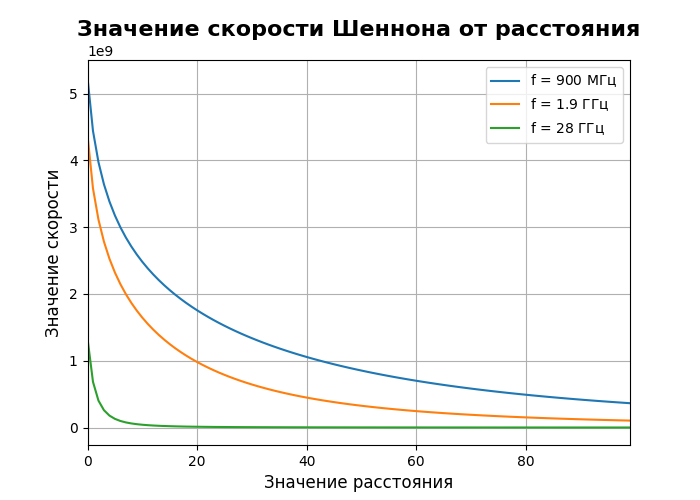
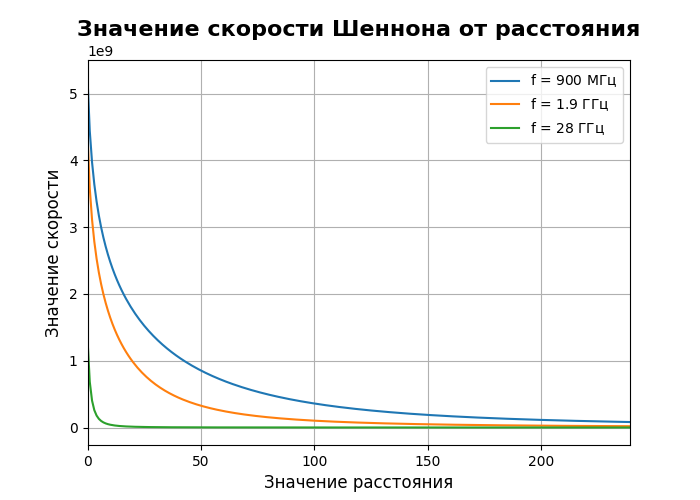
added task 3

diff --git a/main.py b/main.py
@@ -13,7 +13,7 @@ B = 400 * MHz # ширина канала
 N = -174 # тепловой шум
 
 shennon_dBm_list = [], [], []
-d = 100 # значение расстояния
+d = 240 # значение расстояния
 for i in range(len(shennon_dBm_list)):
   for j in range(1, d + 1):
     # вычисление значений скорости Шеннона для всех расстояний
@@ -49,3 +49,82 @@ print('Зависимость от Pt')
 for i in range(3):
   print(f"Скорость Шеннона: {round(shennon_dBm(SNR_W(FSPL_W(f[0], d), B, N, increase_list[0], Pt_list[i]), B), 3)}, f = {int(f[0])} Гц, усил = {increase_list[0]} дБ, Pt = {Pt_list[i]} дБм")
 
+# Task 2 
+
+FSPL_dBm_list = []
+UMaLOS_dBm_list = []
+UMaNLOS_dBm_list = []
+InHLOS_dBm_list = []
+InHNLOS_dBm_list = []
+d = 240 # значение расстояния
+for i in range(10, d + 1):
+  # вычисление значений скорости Шеннона для всех расстояний
+  FSPL_dBm_list.append(FSPL_dBm(f[0], i))
+  UMaLOS_dBm_value = UMaLOS_dBm(f[0], i)
+  UMaLOS_dBm_list.append(UMaLOS_dBm_value)
+  UMaNLOS_dBm_list.append(UMaNLOS_dBm(f[0], i, UMaLOS_dBm_value))
+  InHLOS_dBm_value = InHLOS_dBm(f[0], i)
+  InHLOS_dBm_list.append(InHLOS_dBm_value)
+  InHNLOS_dBm_list.append(InHNLOS_dBm(f[0], i, InHLOS_dBm_value))
+
+fig = plt.subplots(figsize=(7, 5))
+
+plt.plot(FSPL_dBm_list, label="FSPL")
+plt.plot(UMaLOS_dBm_list, label="UMaLOS")
+plt.plot(UMaNLOS_dBm_list, label="UMaNLOS")
+plt.plot(InHLOS_dBm_list, label="InHLOS")
+plt.plot(InHNLOS_dBm_list, label="InHNLOS")
+plt.title('Значение моделей распространения от расстояния', fontsize=14, fontweight="bold")
+plt.xlabel('Значение расстояния', fontsize=12)
+plt.ylabel('дБм', fontsize=12)
+plt.xlim(0, d - 10)
+plt.grid()
+plt.legend()
+plt.savefig('models_from_dist.png')
+
+
+# Task 3 
+
+FSPL_shennon_dBm_list = []
+UMaLOS_shennon_dBm_list = []
+UMaNLOS_shennon_dBm_list = []
+InHLOS_shennon_dBm_list = []
+InHNLOS_shennon_dBm_list = []
+d = 130 # значение расстояния
+for i in range(10, d + 1):
+  # вычисление значений скорости Шеннона для всех расстояний
+  FSPL_shennon_dBm_list.append(shennon_dBm(SNR_W(FSPL_W(f[0], i), B, N, increase, Pt), B))
+  UMaLOS_dBm_value = UMaLOS_dBm(f[0], i)
+  UMaLOS_shennon_dBm_list.append(shennon_dBm(SNR_W(dBm_to_W(UMaLOS_dBm_value), B, N, increase, Pt), B))
+  UMaNLOS_shennon_dBm_list.append(shennon_dBm(SNR_W(dBm_to_W(UMaNLOS_dBm(f[0], i, UMaLOS_dBm_value)), B, N, increase, Pt), B))
+  InHLOS_dBm_value = InHLOS_dBm(f[0], i)
+  InHLOS_shennon_dBm_list.append(shennon_dBm(SNR_W(dBm_to_W(InHLOS_dBm_value), B, N, increase, Pt), B))
+  InHNLOS_shennon_dBm_list.append(shennon_dBm(SNR_W(dBm_to_W(InHNLOS_dBm(f[0], i, InHLOS_dBm_value)), B, N, increase, Pt), B))
+
+fig = plt.subplots(figsize=(7, 5))
+
+# график значения скорости Шеннона от расстояния
+plt.plot(UMaLOS_shennon_dBm_list, label="UMaLOS")
+plt.plot(UMaNLOS_shennon_dBm_list, label="UMaNLOS")
+plt.plot(InHLOS_shennon_dBm_list, label="InHLOS")
+plt.plot(InHNLOS_shennon_dBm_list, label="InHNLOS")
+plt.title('Значение скорости Шеннона от расстояния', fontsize=14, fontweight="bold")
+plt.xlabel('Значение расстояния', fontsize=12)
+plt.ylabel('Значение скорости', fontsize=12)
+plt.xlim(0, d - 10)
+plt.grid()
+plt.legend(loc=1)
+plt.savefig('shenon_model_from_dist.png')
+
+
+fig = plt.subplots(figsize=(7, 5))
+
+# график значения скорости Шеннона от расстояния для нескольких частот
+plt.plot(FSPL_shennon_dBm_list, label="FSPL")
+plt.title('Значение скорости Шеннона от расстояния', fontsize=14, fontweight="bold")
+plt.xlabel('Значение расстояния', fontsize=12)
+plt.ylabel('Значение скорости', fontsize=12)
+plt.xlim(0, d - 10)
+plt.grid()
+plt.legend(loc=1)
+plt.savefig('shenon_FSPL_from_dist.png')

diff --git a/functions.py b/functions.py
@@ -1,5 +1,5 @@
 import math 
-
+import numpy as np
 
 c = 299792458 # константа скорости света
 # функция для модели FSPL в шкале дБм
@@ -24,3 +24,67 @@ def SNR_dBm(model, B, N, increase, Pt):
 
 def shennon_dBm(SNR, B):
   return B * math.log2(1 + SNR)
+
+
+h_BS = 25 # высота антенны BS
+h_UT = 15 # высота антенны UT
+
+# функция для расчета расстояния между вершинами двух антенн
+def d_3D_value(h_BS, h_UT, d):
+  return math.sqrt(pow(h_BS - h_UT, 2) + pow(d, 2))
+
+def d_break_value(h_BS, h_UT, d, f):
+  if d <= 18:
+    g = 0
+  else:
+    g = 5 / 4 * pow(d / 100, 3) * math.exp(-d / 150)
+
+  if h_UT < 13:
+    C = 0
+  elif h_UT <= 23 and h_UT >= 13:
+    C = pow((h_UT - 13) / 10, 1.5) * g
+  else:
+    return "Значение h_UT слишком большое"
+
+  p = np.random.random()
+  prob = 1 / (1 + C)
+  if p < prob:
+    h_E = 1  # эффективная высота окружающей среды
+  else:
+    h_E = np.random.randint(low=12, high=h_UT-1.5)
+
+  return 4 * (h_BS - h_E) * (h_UT - h_E) * f / c
+
+# функция для модели UMaLOS в шкале дБм
+def UMaLOS_dBm(f, d):
+  d_break = d_break_value(h_BS, h_UT, d, f)
+  if d >= 10 and d <= d_break:
+    return 28 + 22 * math.log10(d_3D_value(h_BS, h_UT, d)) + 20 * math.log10(f)
+  elif d >= d_break and d <= 5000:
+    return 28 + 40 * math.log10(d_3D_value(h_BS, h_UT, d)) + 20 * math.log10(f) - 9 * math.log10(pow(d_break, 2) + pow(h_BS - h_UT, 2))
+  else:
+    return 0
+
+# функция для модели UMaNLOS в шкале дБм
+def UMaNLOS_dBm(f, d, PL_UMaLOS):
+  PL_UMaNLOS = 13.54 + 39.08 * math.log10(d_3D_value(h_BS, h_UT, d)) + 20 * math.log10(f) - 0.6 * (h_UT - 1.5)
+  if d >= 10 and d <= 5000:
+    return max(PL_UMaNLOS, PL_UMaLOS)
+  else:
+    return 0
+
+# функция для модели InHLOS в шкале дБм
+def InHLOS_dBm(f, d):
+  d_3D = d_3D_value(h_BS, h_UT, d)
+  if 1 <= d_3D and d_3D <= 150:
+    return 32.4 + 17.3 * math.log10(d_3D_value(h_BS, h_UT, d)) + 20 * math.log10(f)
+  else:
+    return 0
+
+# функция для модели InHNLOS в шкале дБм
+def InHNLOS_dBm(f, d, PL_InHLOS):
+  PL_InHNLOS = 17.3 + 38.3 * math.log10(d_3D_value(h_BS, h_UT, d)) + 24.9 * math.log10(f)
+  if d >= 10 and d <= 5000:
+    return max(PL_InHNLOS, PL_InHLOS)
+  else:
+    return 0

diff --git a/README.md b/README.md
@@ -30,4 +30,10 @@
 
 
 # Задание 2 
+![Alt text](models_from_dist.png)
+
+# Задание 3 
+![Alt text](shenon_model_from_dist.png)![Alt text](shenon_FSPL_from_dist.png)
+
+
 
